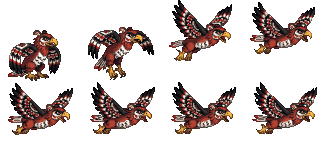
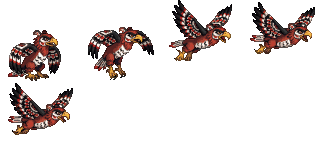
Oiseau-tonnerre : envol plus court ; PLAN, HISTORIQUE et METHODE
L'envol garde les images 1 à 5 (sans la pose en vol tenue), à 12 images
par seconde. Idée notée pour plus tard : la foudre jouée sur la case de la
cible, à part de l'animation de l'attaquant.

Changed region(s): [[0.7716, 0.4938, 0.9877, 0.8333], [0.5247, 0.4938, 0.7407, 0.8333], [0.2778, 0.4938, 0.4938, 0.8333]]

diff --git a/HISTORIQUE.md b/HISTORIQUE.md
@@ -775,6 +775,19 @@ Après l'IA (choix de l'utilisateur), qui devra ensuite apprendre la magie et le
   mort et boule de poison de la Liche, hache de l'Orc, flux de sang du Vampire, poison (bulles, troupe qui verdit),
   régénération du Troll, âmes du Fantôme, auras des sorts. Réglage de la vitesse des projectiles : `ProjectileSpeed`
   (le bouton de l'écran de combat est fait par l'autre session).
+- ✅ Créatures barbares (2026-11-09, branche `creatures-barbares`, PixelLab, environ 3 $) : fiches dans
+  `tools/art/creatures-art.json`, faites avec `tools/art/creature.py`. Choix de l'utilisateur : **Nomades**, archers à cheval des
+  steppes au repos (sabre baissé), sur **2 cases** ; **Oiseau-tonnerre**, oiseau-totem (rouge, noir et blanc), ailes repliées,
+  **1 case** ; **Béhémoth**, pas un ours mais une bête mythique **debout sur deux jambes**, visage de singe, crocs, crinière
+  rousse, mousse, **1 case** (les tailles en cases ont changé en route : la session règles a suivi).
+  - Nomades : visage retouché (réduit, il était dans l'ombre du chapeau) ; galop en boucle (images 3 à 14 d'un essai de 16,
+    sans le départ ni le retour au pas), 16 images/s, 0,4 s par case.
+  - Oiseau-tonnerre : attente (se lisse l'aile), attaque (la foudre frappe le sol devant lui), vol à l'horizontale serres
+    repliées (animé depuis une pose en vol faite par retouche), un battement par case (0,57 s par case), envol en état
+    « transform » (images 1 à 5, 12 images/s ; à l'envers à l'atterrissage).
+  - Béhémoth : attente (frappe le sol), marche (bras l'un après l'autre), attaque (trous de la main comblés après
+    l'effacement de l'éclat).
+  - Images de la carte : PixelLab « Pro » à 32 px (Nomades 14, Oiseau-tonnerre 2, Béhémoth 37), pieds proposés.
 - ✅ Ombres de la carte (2026-11-08, branche `ombres-carte`), dessinées par le jeu (`Game/ShadowLayer.cs`, un calque sous
   le décor et les objets ; pas d'ombre peinte dans les images). Lumière d'en haut à droite, comme Heroes 1 et 2.
   - **Ombre portée** : l'image noire, couchée sur le sol vers la gauche. L'image est découpée en morceaux (pixels qui se

diff --git a/tools/art/METHODE.md b/tools/art/METHODE.md
@@ -85,6 +85,20 @@ les clés et le dossier `art-candidats/` sont décrits dans `CLAUDE.md` ; l'hist
   « front view, simple, clear silhouette, few details ».
 
 ## Créatures de combat (PixelLab)
+- **Leçons des Barbares (2026-11-09)** :
+  - Un **visage** se perd une fois réduit (dans l'ombre d'un chapeau) : `pixellab.py retoucher` la grande image
+    (« make the face bigger and clearly visible… keep everything else ») puis la réduire de nouveau.
+  - Un **éclat** dessiné par-dessus une main : l'effacer laisse des trous (rien dessous). Combler les petits trous de la
+    couleur des voisins (seulement autour de la main), ou remplacer l'image par sa voisine (`retoucher --copier`).
+    `--eclats` ne touche pas un blanc ou un orange que la créature porte déjà (l'Oiseau-tonnerre) : remplacer l'image.
+  - Un **volant** au repos debout : son vol doit partir d'une **pose en vol** (retouche de la grande image : corps à
+    l'horizontale, serres repliées, ailes levées) avec `animer … --depart=` ; l'envol est un état `transform` (joué avant
+    le déplacement et à l'envers après). Couper les images où la pose est tenue (sinon il « lévite »).
+  - Une **boucle** (galop) : retirer les images du départ et du retour à l'arrêt ; « moveFrames », « move » (images/s) et
+    « stepTime » dans `animations.json` règlent la vitesse (une marche fait un cycle par case par défaut).
+  - Demander un **éclair** dans une attaque : remplacer la fin « no visual effects » (`--sans="no other character, no
+    explosion, no white flash"`). Mieux, plus tard : un effet du jeu sur la case de la cible (voir `PLAN.md`).
+
 - **Échelle commune** : un humain fait environ 46 à 54 px de haut (à peu près une case), le Gobelin environ 28, l'Orc 41,
   le Zombie 44, l'Ogre 58, le Troll 64 (orc < ogre < troll), le Colosse 70 ; le Cavalier et le Dragon, longs, couvrent 2 cases (environ 90 × 80).
 - **Une créature à la fois** : d'abord l'image fixe (qui sert aussi d'icône), puis, une fois acceptée, ses animations

diff --git a/PLAN.md b/PLAN.md
@@ -308,6 +308,13 @@ croissance, prix, garde.
   de chaque objet, d'après des pieds revus par l'utilisateur (`godot/art/pieds.json`, `tools/art/pieds.py`) ; scierie
   refaite (cabane de trois quarts, PixelLab). Détail dans `HISTORIQUE.md`. Reste : vérifier les pieds des mines de
   mercure, minerai et soufre, et la force de l'ombre de contact en jeu.
+  ✅ **Créatures barbares** (2026-11-09, branche `creatures-barbares`) : Nomades (2 cases), Oiseau-tonnerre (1 case, vol
+  avec envol et atterrissage), Béhémoth (1 case, debout) : images de combat, animations et images de la carte. Détail
+  dans `HISTORIQUE.md`.
+  - plus tard (idée de l'utilisateur, 2026-11-09) : les effets d'attaque comme la **foudre de l'Oiseau-tonnerre** joués à
+    part, sur la case de la cible (`BattleEffects`), et non dans l'animation de l'attaquant : la foudre frappe la cible
+    même si elle n'est pas juste devant lui (un peu plus bas…). Il faudra alors refaire son attaque sans éclair dessiné,
+    et voir avec la session règles où se joue l'éclat jaune de la foudre (`BattleFieldView`).
 - **La ville vue de face par faction** (conçue avec l'utilisateur, 2026-11-07, rien n'est encore fait) : les règles
   (`buildings.json`) ne gardent plus la place des bâtiments ; chaque faction a sa **scène** (`art/towns/<faction>/` :
   un fond de 640 × 195 affiché ×3, et `scene.json` : pour chaque bâtiment, son pied (bas, milieu), sa profondeur et son
